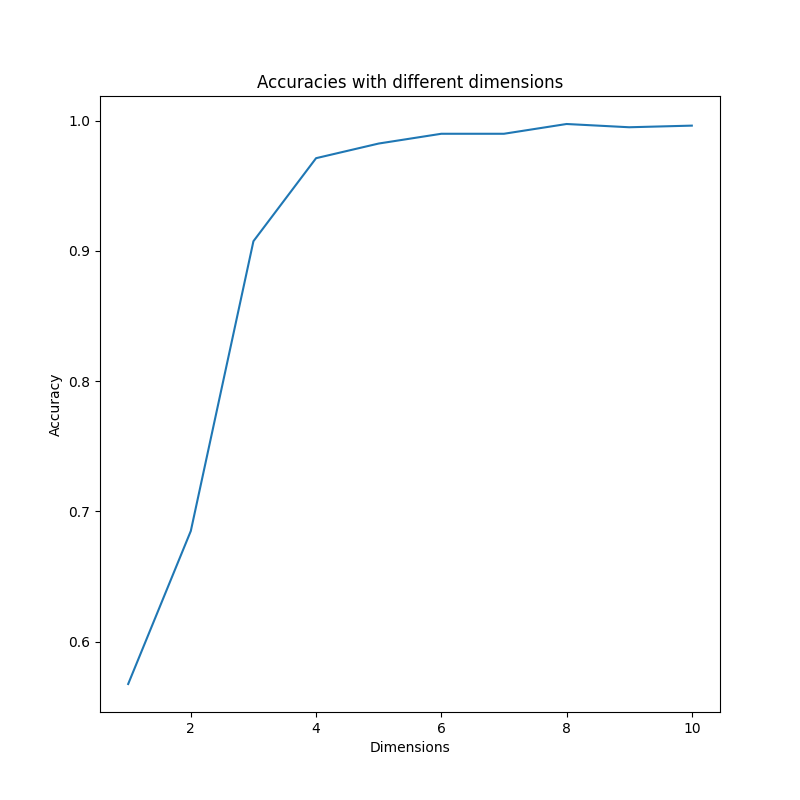
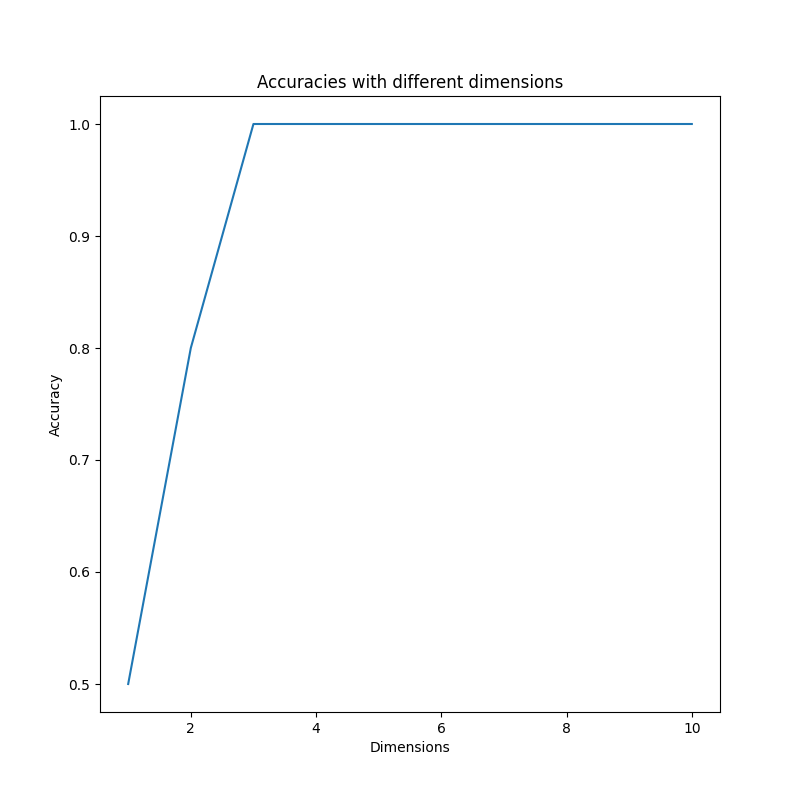
including class weights

diff --git a/Task1TestKoen.py b/Task1TestKoen.py
@@ -72,6 +72,12 @@ class Pipeline:
         samplesPerClass = [0]*len(self.labelsDict)
         for label in self.preProcessedLabels:
             samplesPerClass[label] +=1
+        leastItems = np.min(samplesPerClass)
+
+        self.classWeights={}
+        for index, i in enumerate(samplesPerClass):
+            weight = leastItems/i
+            self.classWeights[index]=weight
         
         print("The data set has "+ str(len(self.preProcessedData))+ " samples divided over " + str(len(self.labelsDict)))
         print("For labels " + str(self.labelsDict) + ",the number of classes are: " + str(samplesPerClass))
@@ -124,49 +130,69 @@ class Pipeline:
             plt.savefig(f"Figures{os.sep}PCA")
         return reducedDimensionsData
     
-
-
-    def validation(self, data, labels, kFolds):
+    def validation(self, data, labels):
         model = Model()
         # TODO: for training cost sensitive error function becuase number of samples per class
-        foldSize = round(len(data)/kFolds)
+        
         accuracies = []
-        for fold in range(kFolds):
-            print("Fold " + str(fold+1))
-            # Split the data in training and validation data
-            valSetIdx = np.arange(fold*foldSize,(fold+1)*foldSize, 1, int)
-            trainX = np.delete(data, valSetIdx,axis=0)
-            trainY = np.delete(labels, valSetIdx,axis=0)
-            valX = data[valSetIdx]
-            valY = labels[valSetIdx]
+        for fold in range(len(labels)):
+            if fold % 100 == 0:
+                print("Fold " + str(fold+1))
+            trainX = np.delete(data,fold,axis=0)
+            trainY = np.delete(labels,fold,axis=0)
+            valX = data[[fold]]
+            valY = labels[[fold]]
             
             # Train and validate the model
-            model.train(trainX, trainY)
+            model.train(trainX, trainY, self.classWeights)
             accuracies.append(model.test(valX, valY))
 
         accuracy = np.mean(accuracies)
         print("Done, average accuracy is: " + str(round(accuracy,3))+"%")
         return accuracy
+
+    # def validation(self, data, labels, kFolds):
+    #     model = Model()
+    #     # TODO: for training cost sensitive error function becuase number of samples per class
+    #     kFolds = 800
+    #     foldSize = 1# round(len(data)/kFolds)
+    #     accuracies = []
+    #     for fold in range(kFolds):
+    #         print("Fold " + str(fold+1))
+    #         # Split the data in training and validation data
+    #         valSetIdx = np.arange(fold*foldSize,(fold+1)*foldSize, 1, int)
+    #         trainX = np.delete(data, valSetIdx,axis=0)
+    #         trainY = np.delete(labels, valSetIdx,axis=0)
+    #         valX = data[valSetIdx]
+    #         valY = labels[valSetIdx]
+            
+    #         # Train and validate the model
+    #         model.train(trainX, trainY)
+    #         accuracies.append(model.test(valX, valY))
+
+    #     accuracy = np.mean(accuracies)
+    #     print("Done, average accuracy is: " + str(round(accuracy,3))+"%")
+    #     return accuracy
         
 
 class Model:
     def __init__(self):
         self.regressionModel = LogisticRegression(random_state=16)
 
-    def train(self, trainX, trainY):
-        self.regressionModel = LogisticRegression(random_state=16, max_iter=10000)
+    def train(self, trainX, trainY, classWeights):
+        self.regressionModel = LogisticRegression(random_state=16, max_iter=10000, class_weight=classWeights)
         self.regressionModel.fit(trainX, trainY)
 
     def test(self, testX, testY):
         predictY = self.regressionModel.predict(testX)
-        cnf_matrix = metrics.confusion_matrix(testY, predictY)   
-        print(cnf_matrix)
-
-        correct = 0
-        for test, predict in zip(testY, predictY):
-            if (test==predict):
-                correct +=1
-        accuracy = correct/len(testY)
+        #cnf_matrix = metrics.confusion_matrix(testY, predictY)   
+        #print(cnf_matrix)
+        accuracy = testY==predictY
+        # correct = 0
+        # for test, predict in zip(testY, predictY):
+        #     if (test==predict):
+        #         correct +=1
+        # accuracy = correct/len(testY)
         return accuracy
 
 
@@ -184,7 +210,7 @@ if __name__=="__main__":
     for dimension in range(1,maxNumberOfDimensions+1):
         print("Grid search "+ str(dimension))
         dataReduced = pipeline.dimensionReduction(pipeline.dataX, pipeline.dataY, dimension)
-        accuracies.append(pipeline.validation(dataReduced, pipeline.dataY, kFolds=10))
+        accuracies.append(pipeline.validation(dataReduced, pipeline.dataY))#, kFolds=10))
 
     fig = plt.figure(figsize = (8,8))
     plt.plot(range(1,len(accuracies)+1), accuracies)
